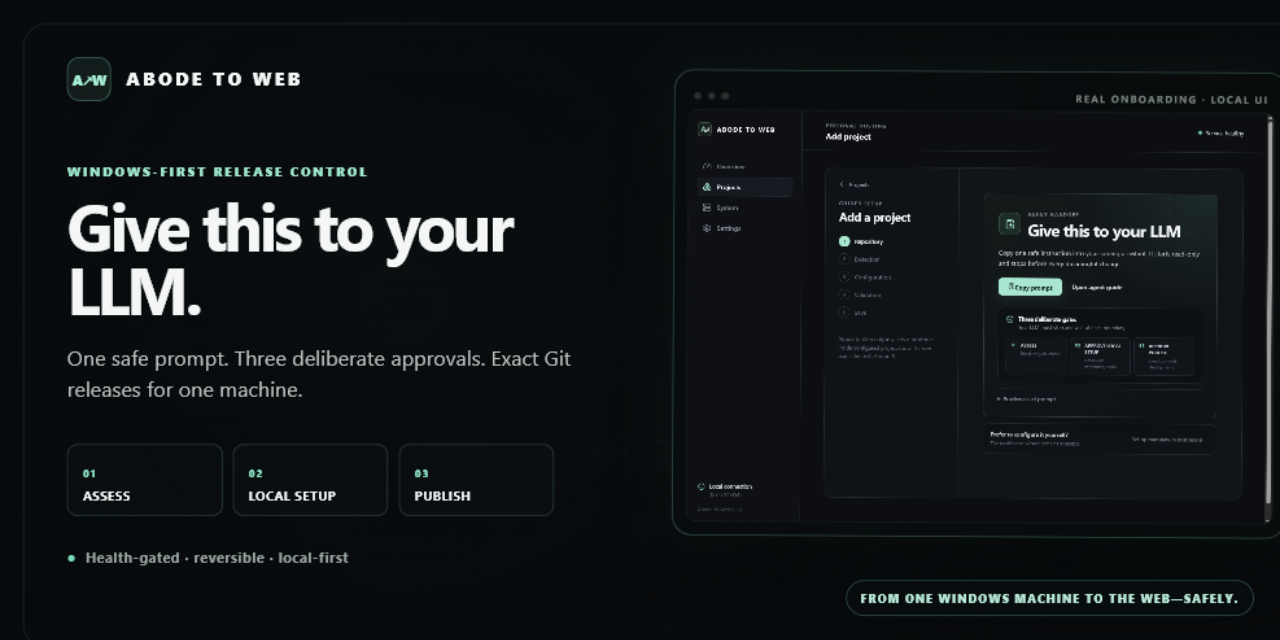
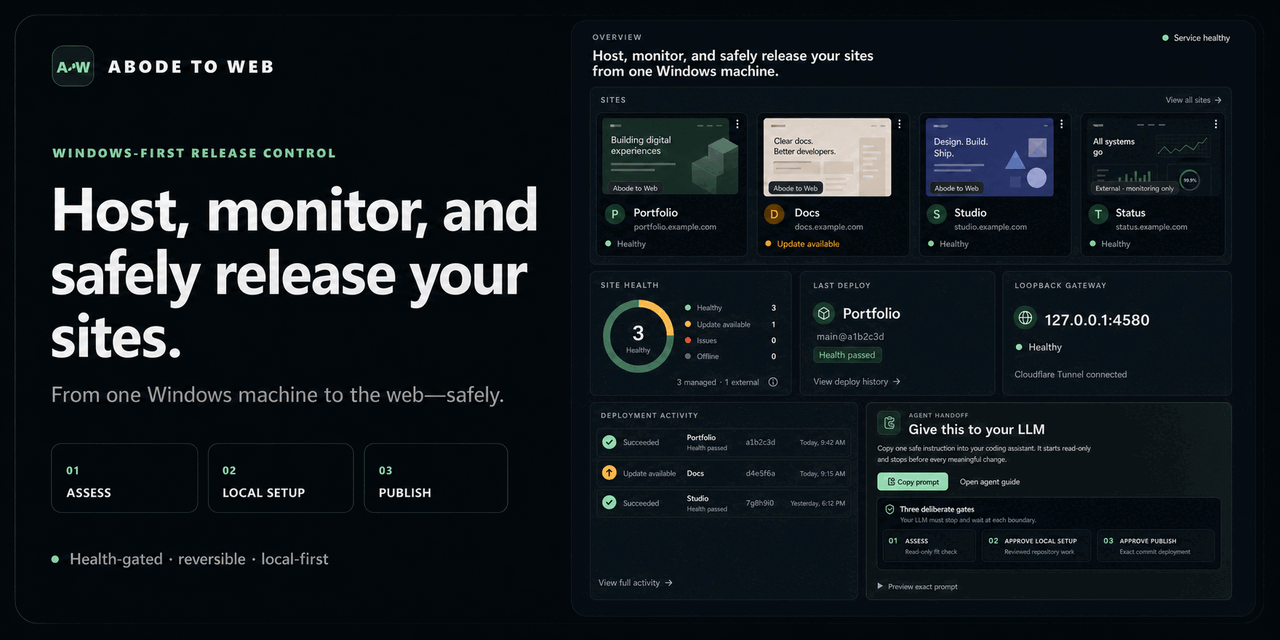
Harden tunnel diagnostics and show the complete product (#5)
Pins cloudflared diagnostics to the supported machine-wide install, adds regression coverage, and replaces the setup-only README artwork with an anonymized product overview and matching social-preview source.

diff --git a/src/AbodeToWeb.Server/Services/TunnelDiagnosticsService.cs b/src/AbodeToWeb.Server/Services/TunnelDiagnosticsService.cs
@@ -12,7 +12,7 @@ public sealed class TunnelDiagnosticsService(ManifestProvider manifest, IHttpCli
 
     public async Task<TunnelStatus> GetAsync(CancellationToken cancellationToken = default)
     {
-        var executable = FindExecutable("cloudflared.exe");
+        var executable = FindExecutable();
         var installed = executable is not null;
         var version = installed ? await ReadVersionAsync(executable!, cancellationToken) : null;
         var (serviceInstalled, serviceRunning) = GetServiceState();
@@ -103,21 +103,22 @@ public sealed class TunnelDiagnosticsService(ManifestProvider manifest, IHttpCli
         catch (InvalidOperationException) { return (false, false); }
     }
 
-    private static string? FindExecutable(string fileName)
+    private static string? FindExecutable() =>
+        FindExecutable(
+        [
+            Environment.GetFolderPath(Environment.SpecialFolder.ProgramFiles),
+            Environment.GetFolderPath(Environment.SpecialFolder.ProgramFilesX86)
+        ]);
+
+    internal static string? FindExecutable(IEnumerable<string> programFilesRoots)
     {
-        foreach (var directory in (Environment.GetEnvironmentVariable("PATH") ?? string.Empty).Split(Path.PathSeparator, StringSplitOptions.RemoveEmptyEntries | StringSplitOptions.TrimEntries))
+        foreach (var programFiles in programFilesRoots
+                     .Where(path => !string.IsNullOrWhiteSpace(path))
+                     .Select(Path.GetFullPath)
+                     .Distinct(StringComparer.OrdinalIgnoreCase))
         {
-            var candidate = Path.Combine(directory.Trim('"'), fileName);
-            if (File.Exists(candidate)) return candidate;
-        }
-        foreach (var programFiles in new[]
-                 {
-                     Environment.GetFolderPath(Environment.SpecialFolder.ProgramFiles),
-                     Environment.GetFolderPath(Environment.SpecialFolder.ProgramFilesX86)
-                 }.Where(path => !string.IsNullOrWhiteSpace(path)).Distinct(StringComparer.OrdinalIgnoreCase))
-        {
-            var conventional = Path.Combine(programFiles, "cloudflared", fileName);
-            if (File.Exists(conventional)) return conventional;
+            var conventional = Path.Combine(programFiles, "cloudflared", "cloudflared.exe");
+            if (File.Exists(conventional)) return Path.GetFullPath(conventional);
         }
         return null;
     }

diff --git a/tests/AbodeToWeb.IntegrationTests/TunnelDiagnosticsServiceTests.cs b/tests/AbodeToWeb.IntegrationTests/TunnelDiagnosticsServiceTests.cs
@@ -1,0 +1,33 @@
+using AbodeToWeb.Server.Services;
+
+namespace AbodeToWeb.IntegrationTests;
+
+public sealed class TunnelDiagnosticsServiceTests
+{
+    [Fact]
+    public void FindExecutable_uses_the_conventional_machine_install_directory()
+    {
+        using var temporary = new TemporaryAbodeToWebDirectory();
+        var programFiles = temporary.GetPath("program-files");
+        var executable = Path.Combine(programFiles, "cloudflared", "cloudflared.exe");
+        Directory.CreateDirectory(Path.GetDirectoryName(executable)!);
+        File.WriteAllText(executable, string.Empty);
+
+        var resolved = TunnelDiagnosticsService.FindExecutable([programFiles]);
+
+        Assert.Equal(Path.GetFullPath(executable), resolved, StringComparer.OrdinalIgnoreCase);
+    }
+
+    [Fact]
+    public void FindExecutable_does_not_use_a_path_style_root_executable()
+    {
+        using var temporary = new TemporaryAbodeToWebDirectory();
+        var pathEntry = temporary.GetPath("path-entry");
+        Directory.CreateDirectory(pathEntry);
+        File.WriteAllText(Path.Combine(pathEntry, "cloudflared.exe"), string.Empty);
+
+        var resolved = TunnelDiagnosticsService.FindExecutable([pathEntry]);
+
+        Assert.Null(resolved);
+    }
+}

diff --git a/docs/CLOUDFLARE.md b/docs/CLOUDFLARE.md
@@ -82,7 +82,7 @@ The credential file is referenced by path and copied with restrictive ACLs. Its 
 
 If a service named `cloudflared` already has a different command line, the script stops before repurposing it. Choose a distinct `-ServiceName`, or review the existing connector and pass `-ReplaceExistingService` deliberately. The uninstaller applies the same ownership check and requires `-Force` before removing a connector that does not reference Abode to Web's configuration.
 
-The 0.1 dashboard diagnostic watches the conventional `cloudflared` service name and the generated readiness listener at `127.0.0.1:49312`. If you deliberately choose a different service name to coexist with another connector, use `status-tunnel.ps1 -ServiceName '<name>'` and the matching service-control script parameter as the authoritative local check; the dashboard's service-state card will not represent that custom name.
+The 0.1 dashboard diagnostic watches the conventional `cloudflared` service name and the generated readiness listener at `127.0.0.1:49312`. It resolves the binary only from the supported machine-wide `Program Files\cloudflared\cloudflared.exe` location; it does not execute a same-named file found through the service's inherited `PATH`. If you deliberately choose a different service name or a custom/user-scoped binary location, use `status-tunnel.ps1 -ServiceName '<name>'` and the matching service-control script parameter as the authoritative local check; the dashboard's service-state card will not represent that custom setup.
 
 ## Validate and check status
 

diff --git a/README.md b/README.md
@@ -6,9 +6,9 @@
 
 **Windows-first, health-gated Git releases for one machine.**
 
-Abode to Web turns a Windows PC or server into a small, understandable application platform. It prepares an exact Git commit in an isolated release directory, checks the candidate, and switches routing only after the activation gate passes. Stable static releases remain available for rollback.
+Abode to Web lets you host, monitor, and safely release your sites from one Windows machine. Give a repository to your LLM, review the proposed setup, and approve an exact Git release only after its health checks pass. Known-good static releases stay ready for rollback.
 
-![Abode to Web dashboard onboarding — Give this to your LLM](docs/assets/abode-to-web-ai-onboarding.png)
+![Abode to Web overview showing hosted sites, health, deployment activity, and Give this to your LLM onboarding](docs/assets/abode-to-web-overview-onboarding.png)
 
 The stable path serves **committed, prebuilt static output** and runs no project install, build, or start command. It needs no Docker, IIS, WSL, Linux VM, or long-running Node process. Any project command—including a build for a static site—and every Node, command, or Docker Compose adapter require the explicit `experimentalProjectExecution` opt-in.
 
